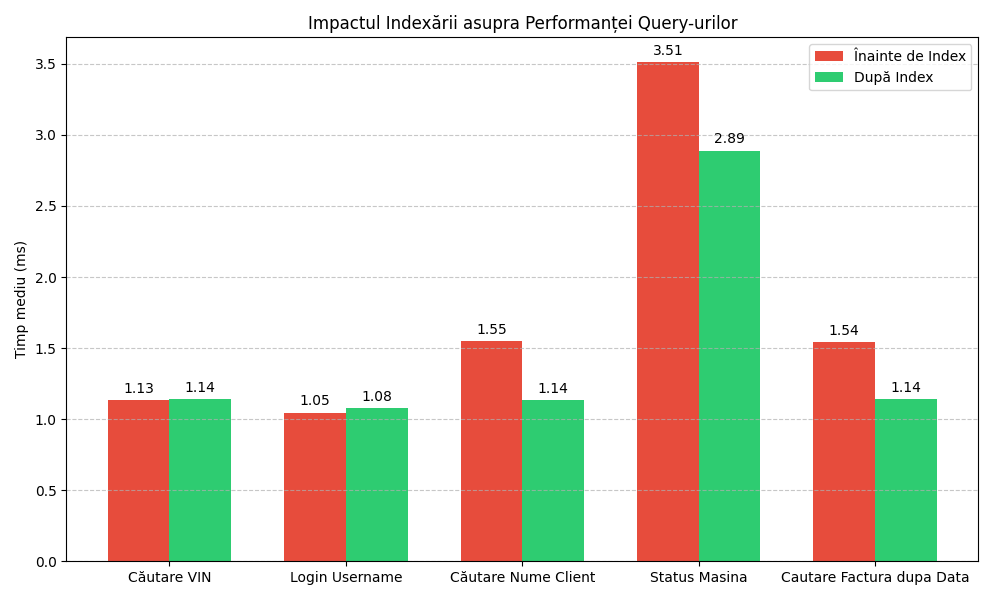
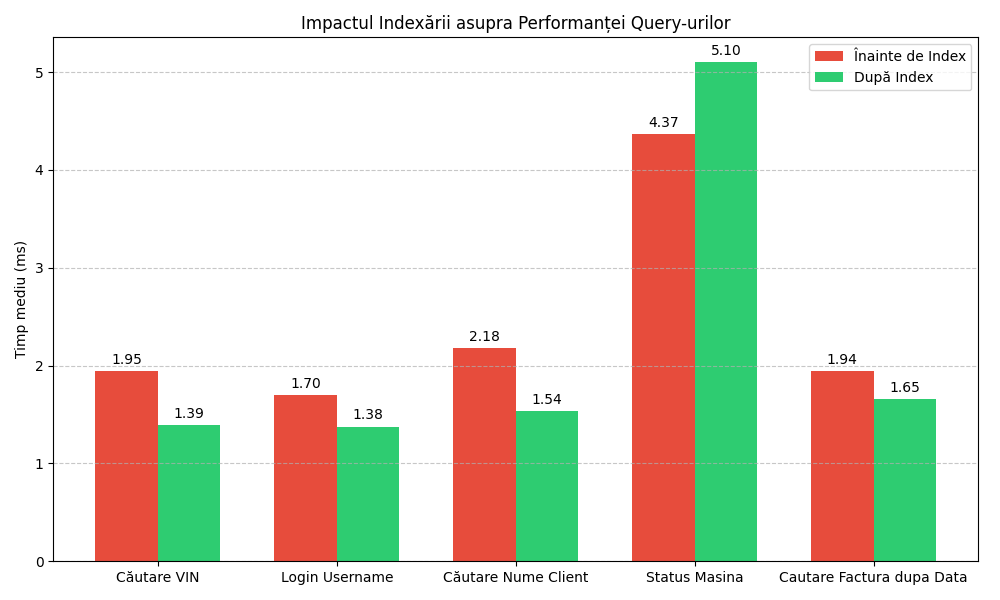
Raw Procedures

diff --git a/scripts/database_testing_scripts/order_service.py b/scripts/database_testing_scripts/order_service.py
@@ -1,0 +1,67 @@
+from datetime import datetime, timedelta
+from app.db import get_connection, run_select
+
+print("ORDER SERVICE - TESTING PROCEDURES")
+
+# 1. Get the user ID
+user_rows = run_select("SELECT id_user FROM Cont_Client WHERE username = %s;", ("dana.dinu7985",))
+if not user_rows:
+    print("Error: User not found.")
+    exit()
+
+user_id = user_rows[0][0]
+
+# 2. Define the cars and dates
+masini = [
+    {"id_masina": 6},
+    {"id_masina": 9},
+]
+
+# Defining test dates (Today and 7 days from now)
+data_predare = datetime.now().strftime('%Y-%m-%d %H:%M:%S')
+data_returnare = (datetime.now() + timedelta(days=7)).strftime('%Y-%m-%d %H:%M:%S')
+
+connection = get_connection()
+cursor = connection.cursor()
+
+try:
+    print(f"Apelam procedura plasare_comanda pentru {len(masini)} masini...")
+
+    for masina in masini:
+        m_id = masina["id_masina"]
+        # Calling the procedure with the 4 required arguments
+        cursor.execute(
+            "CALL plasare_comanda(%s, %s, %s, %s);",
+            (user_id, m_id, data_predare, data_returnare)
+        )
+        print(f"Comanda plasata cu succes pentru masina ID: {m_id}")
+
+    connection.commit()
+    print("\nToate procedurile au fost rulate cu succes.")
+
+except Exception as e:
+    print(f"Eroare la executie: {e}")
+    connection.rollback()
+finally:
+    cursor.close()
+    connection.close()
+
+print("\nVerificarea in DB (Ultimele comenzi plasate):")
+query_verificare = """
+    SELECT 
+        c.id_comanda, 
+        m.id_masina,
+        m.status, 
+        rc.data_predare, 
+        rc.data_returnare
+    FROM Comanda c
+    JOIN Raport_Comanda rc ON c.id_comanda = rc.fk_comanda
+    JOIN Masini m ON rc.fk_masina = m.id_masina
+    WHERE c.fk_user = %s
+    ORDER BY c.id_comanda DESC
+    LIMIT 5;
+"""
+
+rows = run_select(query_verificare, (user_id,))
+for row in rows:
+    print(f"Comanda: {row[0]} | Masina: {row[1]} | Status: {row[2]} | Perioada: {row[3]} -> {row[4]}")

diff --git a/scripts/table_magement_scripts/create_procedures.py b/scripts/table_magement_scripts/create_procedures.py
@@ -1,0 +1,31 @@
+from app.db import run_execute, run_select, get_connection
+from pathlib import Path
+
+def create_procedure():
+    project_root = Path(__file__).resolve().parent.parent.parent
+
+    connection =  get_connection()
+    cursor = connection.cursor()
+
+    try:
+        procedure_path = project_root / "sql" / "procedures.sql"
+        procedure_text = procedure_path.read_text(encoding="utf-8")
+
+        procedure_block = [
+            b.strip()
+            for b in procedure_text.split("--END_PROCEDURE--")
+            if b.strip()
+        ]
+        for block in procedure_block:
+            cursor.execute(block)
+            connection.commit()
+    except Exception as e:
+        connection.rollback()
+        print("Eroare la crearea procedurilor", e)
+        raise
+    finally:
+        cursor.close()
+        connection.close()
+
+if __name__ == "__main__":
+    create_procedure()

diff --git a/app/db.py b/app/db.py
@@ -4,7 +4,7 @@ from dotenv import load_dotenv
 
 load_dotenv()
 
-pool_size = int(os.getenv("DB_POOL_SIZE", "20"))
+pool_size = int(os.getenv("DB_POOL_SIZE", "40"))
 
 pool = mariadb.ConnectionPool(
     host=os.getenv("DB_HOST", "127.0.0.1"),